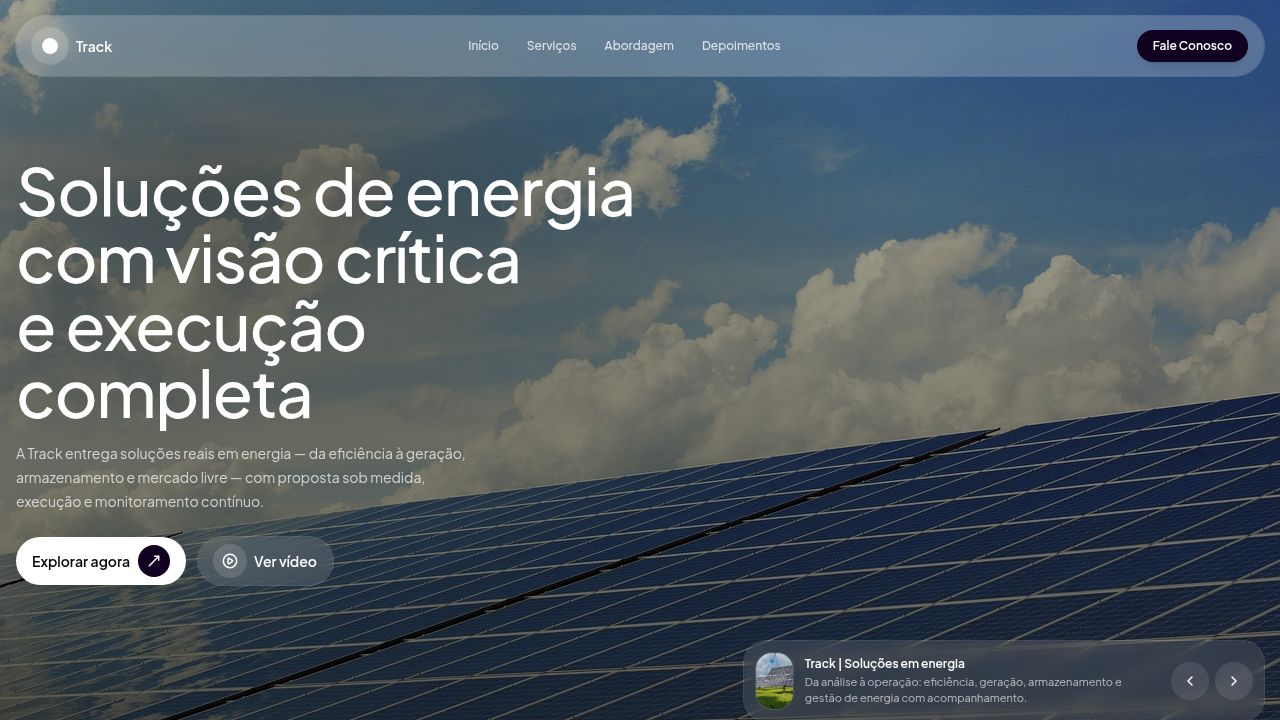
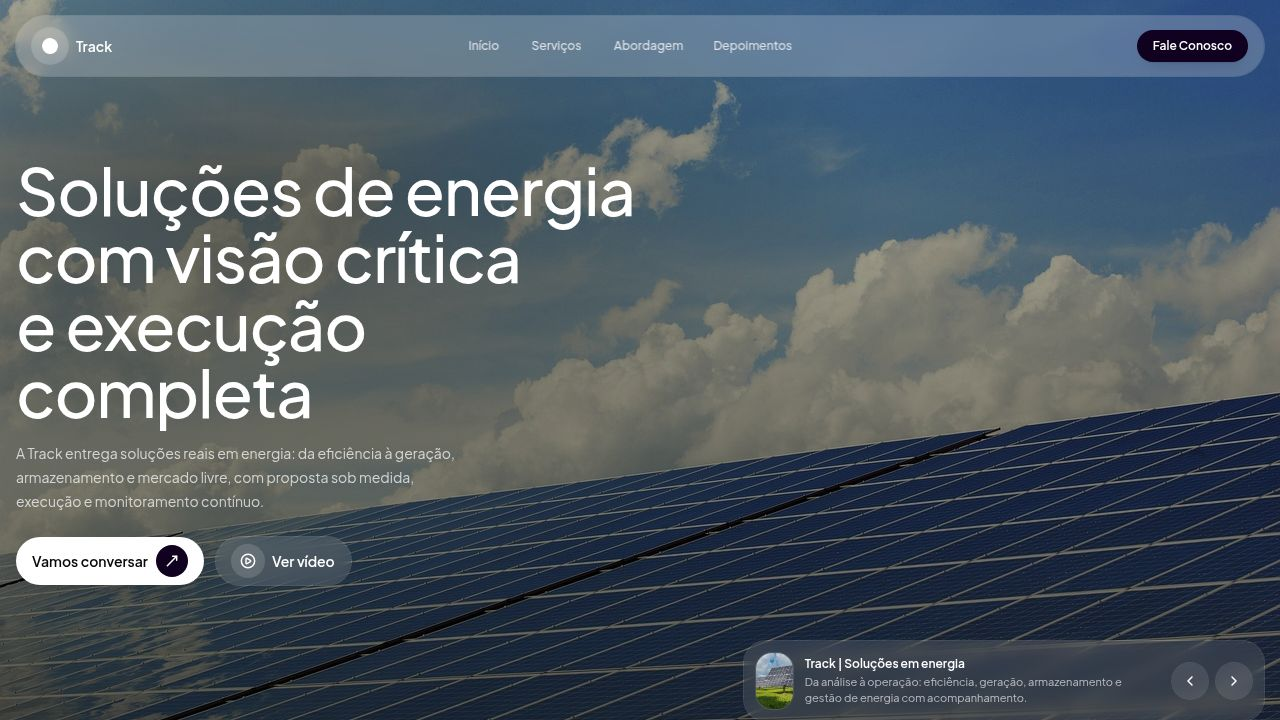
Add animated arrow and text reveal to the header
Implement a new header animation featuring a sliding arrow and staggered text reveal using Framer Motion and requestAnimationFrame for smooth, elegant transitions.

Replit-Commit-Author: Agent
Replit-Commit-Session-Id: c6c18fe9-3641-4ed8-9fe7-ea39e3a34ddc
Replit-Commit-Checkpoint-Type: full_checkpoint
Replit-Commit-Event-Id: d44f143d-2a7b-4e60-9978-6a2406682c3e
Replit-Commit-Screenshot-Url: https://storage.googleapis.com/screenshot-production-us-central1/eede4cac-3f58-423c-a1e9-f071d8b2dafc/c6c18fe9-3641-4ed8-9fe7-ea39e3a34ddc/4Ma5bzZ
Replit-Helium-Checkpoint-Created: true

diff --git a/client/src/pages/landing.tsx b/client/src/pages/landing.tsx
@@ -1,4 +1,4 @@
-import { useEffect, useMemo, useState } from "react";
+import React, { useEffect, useMemo, useState } from "react";
 import { AnimatePresence, motion } from "framer-motion";
 import {
   ArrowRight,
@@ -175,36 +175,146 @@ function GhostButton({
 }
 
 function Nav({ onContact }: { onContact: () => void }) {
+  const reduced = usePrefersReducedMotion();
+  const [ready, setReady] = useState(false);
+  const [progress, setProgress] = useState(0);
+
+  useEffect(() => {
+    if (typeof window === "undefined") return;
+    const t = window.setTimeout(() => setReady(true), 260);
+    return () => window.clearTimeout(t);
+  }, []);
+
+  useEffect(() => {
+    if (!ready || reduced) {
+      setProgress(reduced ? 1 : 0);
+      return;
+    }
+
+    let raf = 0;
+    const start = performance.now();
+    const total = 880; // rápido e suave
+
+    const tick = (now: number) => {
+      const t = Math.min(1, (now - start) / total);
+      // easeOutCubic
+      const eased = 1 - Math.pow(1 - t, 3);
+      setProgress(eased);
+      if (t < 1) raf = requestAnimationFrame(tick);
+    };
+
+    raf = requestAnimationFrame(tick);
+    return () => cancelAnimationFrame(raf);
+  }, [ready, reduced]);
+
+  const showHome = progress >= 0.26;
+  const showProduct = progress >= 0.42;
+  const showProcess = progress >= 0.58;
+  const showTestimonials = progress >= 0.74;
+
   return (
     <div className="pointer-events-none absolute left-0 right-0 top-0 z-20">
       <div className="container-page pointer-events-auto">
-        <div className="mt-4 flex items-center justify-between rounded-full bg-white/22 px-4 py-3 ring-1 ring-white/18 backdrop-blur">
-          <a data-testid="link-logo" href="#top" className="flex items-center gap-2">
-            <span className="grid h-9 w-9 place-items-center rounded-full bg-white/18 ring-1 ring-white/15">
+        <div
+          data-testid="header-shell"
+          className="relative mt-4 flex items-center justify-between overflow-hidden rounded-full bg-white/22 px-4 py-3 ring-1 ring-white/18 backdrop-blur"
+        >
+          {/* Seta (imagem anexada) percorre todo o header até a bola da logo */}
+          <div data-testid="anim-arrow-layer" className="pointer-events-none absolute inset-0">
+            {/* máscara para começar só com a pontinha */}
+            <div
+              data-testid="anim-arrow-mask"
+              className="absolute inset-0 overflow-hidden"
+              style={{
+                clipPath: `inset(0 ${(1 - progress) * 100}% 0 0 round 999px)`,
+                willChange: "clip-path",
+              }}
+            >
+              <div
+                data-testid="anim-arrow-track"
+                className="absolute left-0 top-1/2 -translate-y-1/2"
+                style={{
+                  width: "100%",
+                  transform: `translate3d(${(1 - progress) * 110}%, -50%, 0)`,
+                  willChange: "transform",
+                }}
+              >
+                <img
+                  data-testid="img-header-arrow"
+                  src="/attached_assets/image_1769823966992.png"
+                  alt="Seta"
+                  className="h-[46px] w-auto opacity-[0.98] drop-shadow-[0_18px_30px_rgba(0,0,0,.35)] md:h-[52px]"
+                  style={{
+                    imageRendering: "auto",
+                  }}
+                />
+              </div>
+            </div>
+          </div>
+
+          <a data-testid="link-logo" href="#top" className="relative flex items-center gap-2">
+            <span
+              data-testid="logo-ball"
+              className="grid h-9 w-9 place-items-center rounded-full bg-white/18 ring-1 ring-white/15"
+            >
               <span className="h-4 w-4 rotate-12 rounded-sm bg-white" />
             </span>
-            <span className="text-sm font-semibold text-white">Track</span>
+            <span data-testid="text-logo" className="text-sm font-semibold text-white">
+              Track
+            </span>
           </a>
 
-          <div className="hidden items-center gap-7 text-xs font-medium text-white/78 md:flex">
-            <a data-testid="link-nav-home" href="#top" className="transition hover:text-white">
+          <div data-testid="nav-desktop" className="hidden items-center gap-7 text-xs font-medium text-white/78 md:flex">
+            <motion.a
+              data-testid="link-nav-home"
+              href="#top"
+              className="transition hover:text-white"
+              initial={false}
+              animate={showHome ? { opacity: 1, x: 0, filter: "blur(0px)" } : { opacity: 0, x: 14, filter: "blur(6px)" }}
+              transition={{ duration: 0.28, ease: [0.22, 1, 0.36, 1] }}
+              style={{ pointerEvents: showHome ? "auto" : "none" }}
+            >
               Início
-            </a>
-            <a data-testid="link-nav-product" href="#product" className="transition hover:text-white">
+            </motion.a>
+            <motion.a
+              data-testid="link-nav-product"
+              href="#product"
+              className="transition hover:text-white"
+              initial={false}
+              animate={showProduct ? { opacity: 1, x: 0, filter: "blur(0px)" } : { opacity: 0, x: 14, filter: "blur(6px)" }}
+              transition={{ duration: 0.28, ease: [0.22, 1, 0.36, 1] }}
+              style={{ pointerEvents: showProduct ? "auto" : "none" }}
+            >
               Serviços
-            </a>
-            <a data-testid="link-nav-process" href="#process" className="transition hover:text-white">
+            </motion.a>
+            <motion.a
+              data-testid="link-nav-process"
+              href="#process"
+              className="transition hover:text-white"
+              initial={false}
+              animate={showProcess ? { opacity: 1, x: 0, filter: "blur(0px)" } : { opacity: 0, x: 14, filter: "blur(6px)" }}
+              transition={{ duration: 0.28, ease: [0.22, 1, 0.36, 1] }}
+              style={{ pointerEvents: showProcess ? "auto" : "none" }}
+            >
               Abordagem
-            </a>
-            <a data-testid="link-nav-testimonials" href="#testimonials" className="transition hover:text-white">
+            </motion.a>
+            <motion.a
+              data-testid="link-nav-testimonials"
+              href="#testimonials"
+              className="transition hover:text-white"
+              initial={false}
+              animate={showTestimonials ? { opacity: 1, x: 0, filter: "blur(0px)" } : { opacity: 0, x: 14, filter: "blur(6px)" }}
+              transition={{ duration: 0.28, ease: [0.22, 1, 0.36, 1] }}
+              style={{ pointerEvents: showTestimonials ? "auto" : "none" }}
+            >
               Depoimentos
-            </a>
+            </motion.a>
           </div>
 
           <button
             data-testid="button-contact"
             onClick={onContact}
-            className="rounded-full bg-[#100121] px-4 py-2 text-xs font-semibold text-white shadow-sm transition hover:bg-[#1a0335] active:scale-[0.98]"
+            className="relative rounded-full bg-[#100121] px-4 py-2 text-xs font-semibold text-white shadow-sm transition hover:bg-[#1a0335] active:scale-[0.98]"
           >
             Fale Conosco
           </button>
